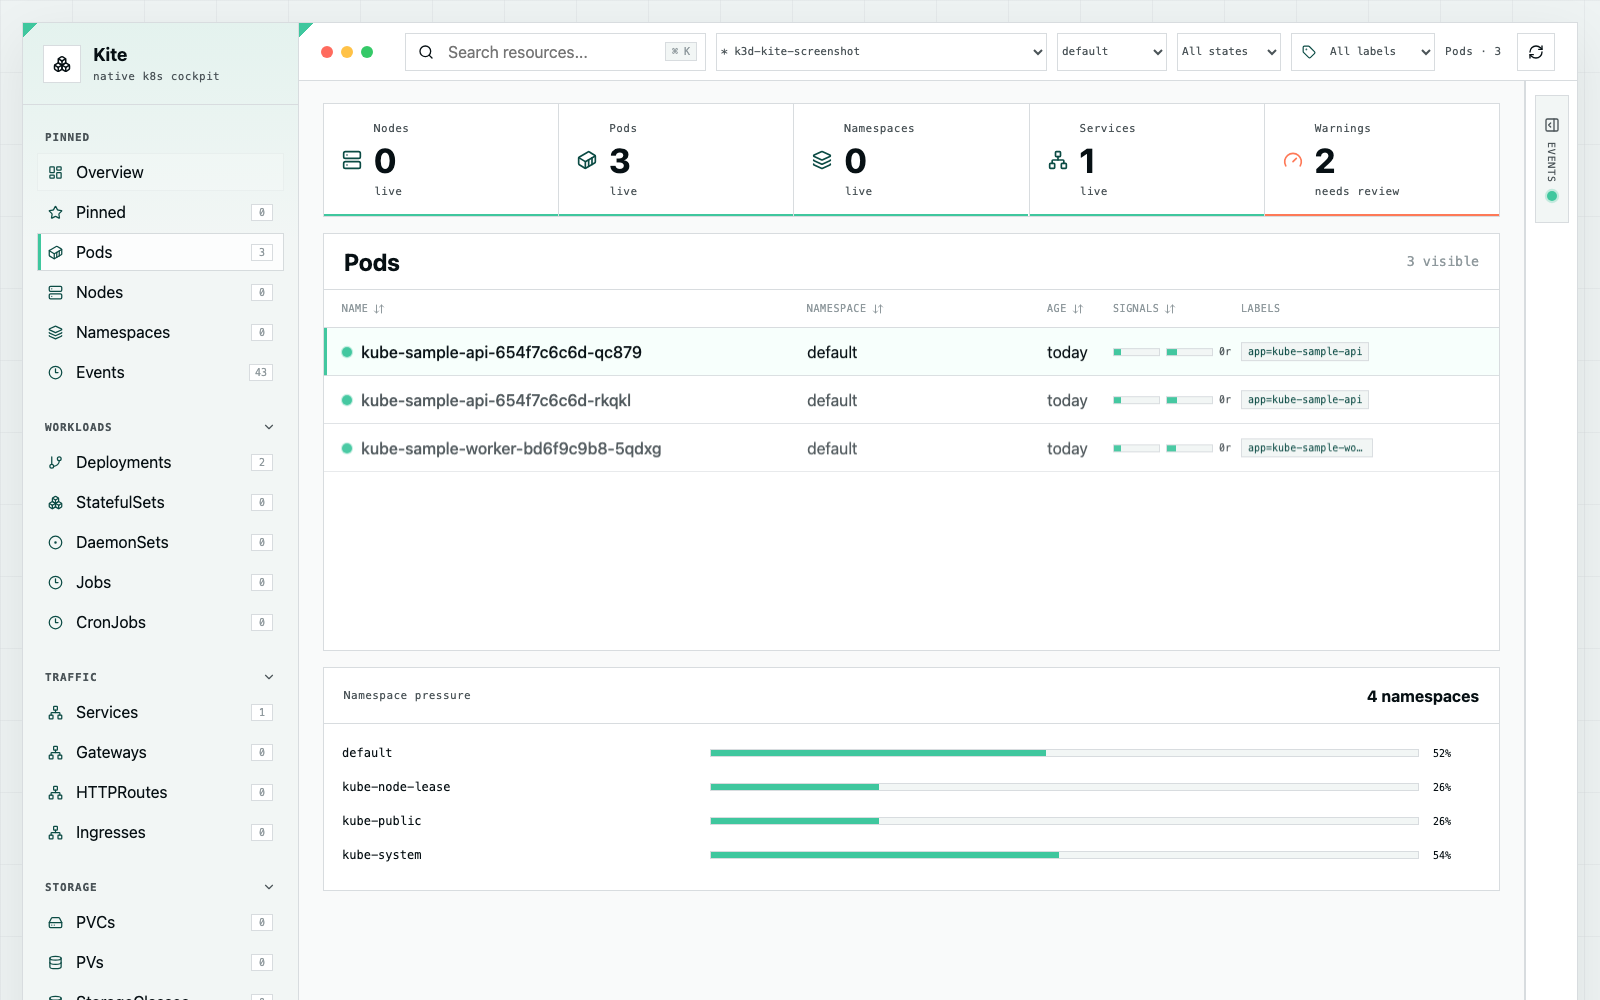
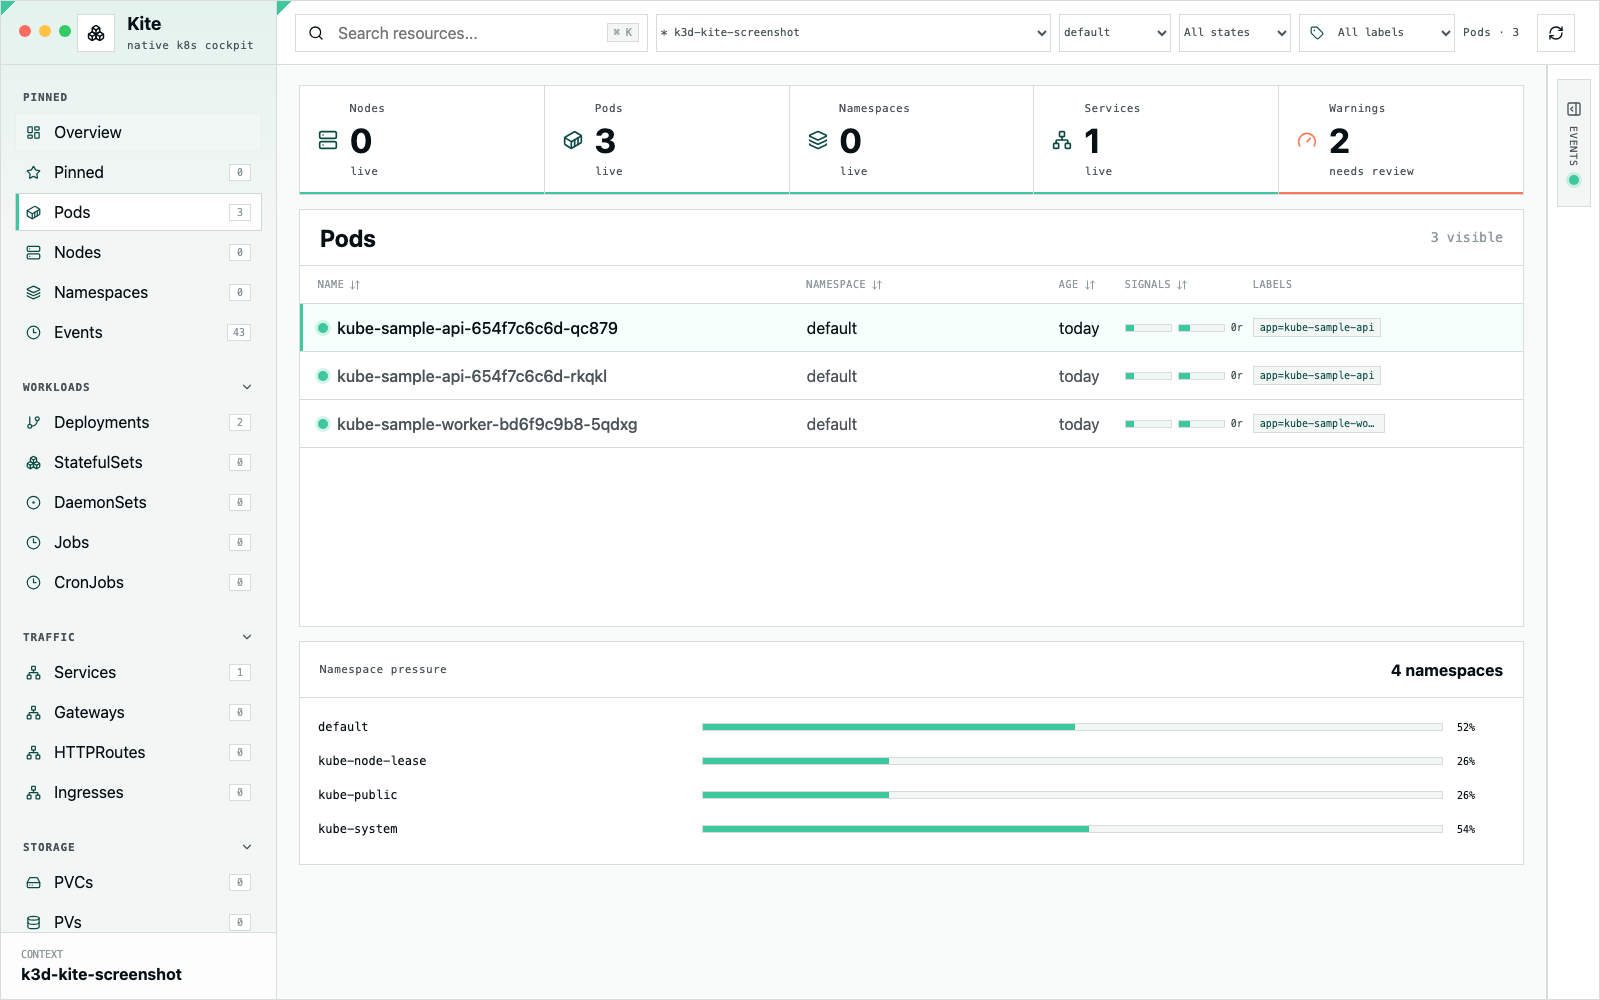
Polish native macOS app layout

diff --git a/src/styles/base.css b/src/styles/base.css
@@ -5,7 +5,7 @@
 html,
 body,
 #root {
-  min-block-size: 100%;
+  block-size: 100%;
   margin: 0;
 }
 
@@ -28,26 +28,52 @@ button {
   color: inherit;
 }
 
+button:focus-visible,
+input:focus-visible,
+select:focus-visible,
+summary:focus-visible {
+  outline: 2px solid color-mix(in srgb, var(--green) 72%, white);
+  outline-offset: 2px;
+}
+
+.nav-groups,
+.primary-pane,
+.inspector,
+.inspector-rail,
+.scope-tabs,
+.log-source-tabs,
+.terminal-output,
+.code-pane,
+.log-pane,
+.event-pane,
+.inspector-yaml pre {
+  scrollbar-color: color-mix(in srgb, var(--green-deep) 28%, transparent) transparent;
+  scrollbar-gutter: stable;
+}
+
 .kite-window {
-  min-block-size: 100vh;
-  padding: 22px;
+  block-size: 100dvh;
+  overflow: hidden;
 }
 
 .control-center {
   display: grid;
   grid-template-columns: 276px minmax(0, 1fr);
-  min-inline-size: 1120px;
-  min-block-size: calc(100vh - 44px);
+  inline-size: 100%;
+  block-size: 100%;
+  min-inline-size: 0;
+  min-block-size: 0;
   overflow: hidden;
   border: 1px solid var(--line);
   background: rgba(255, 255, 255, 0.9);
-  box-shadow: var(--shadow);
 }
 
 .sidebar {
   display: grid;
   grid-template-rows: auto minmax(0, 1fr) auto;
+  block-size: 100%;
   min-block-size: 0;
+  overflow: hidden;
   border-inline-end: 1px solid var(--line);
   background:
     linear-gradient(180deg, rgba(63, 199, 158, 0.08), transparent 220px),
@@ -59,8 +85,8 @@ button {
   display: flex;
   gap: 12px;
   align-items: center;
-  min-block-size: 82px;
-  padding-inline: 20px;
+  min-block-size: 64px;
+  padding-inline: 76px 18px;
   border-block-end: 1px solid var(--line);
 }
 
@@ -103,10 +129,29 @@ button {
   letter-spacing: 0.04em;
 }
 
+.window-control-fallback {
+  position: absolute;
+  inset-block-start: 24px;
+  inset-inline-start: 18px;
+  display: flex;
+  gap: 8px;
+}
+
+.window-control-fallback span {
+  inline-size: 12px;
+  block-size: 12px;
+  border-radius: 999px;
+}
+
+.window-control-fallback span:nth-child(1) { background: #ff6b5e; }
+.window-control-fallback span:nth-child(2) { background: #ffc247; }
+.window-control-fallback span:nth-child(3) { background: #35c968; }
+
 .nav-groups {
   min-block-size: 0;
   overflow-y: auto;
   padding: 18px 14px 22px;
+  overscroll-behavior: contain;
 }
 
 .nav-section {
@@ -186,36 +231,22 @@ button {
 
 .workspace {
   display: grid;
-  grid-template-rows: 58px minmax(0, 1fr);
+  grid-template-rows: 64px minmax(0, 1fr);
   min-inline-size: 0;
   min-block-size: 0;
+  overflow: hidden;
 }
 
 .toolbar {
   position: relative;
   display: grid;
-  grid-template-columns: 74px minmax(160px, 1fr) minmax(170px, 1.1fr) 110px 104px 144px minmax(62px, auto) 38px;
-  gap: 10px;
+  grid-template-columns: minmax(210px, 1fr) minmax(220px, 1.12fr) 112px 112px 156px minmax(66px, auto) 40px;
+  gap: 8px;
   align-items: center;
-  padding-inline: 22px;
+  padding-inline: 18px 22px;
   border-block-end: 1px solid var(--line);
   background: rgba(255, 255, 255, 0.92);
 }
-
-.traffic-dots {
-  display: flex;
-  gap: 8px;
-}
-
-.traffic-dots span {
-  inline-size: 12px;
-  block-size: 12px;
-  border-radius: 999px;
-}
-
-.traffic-dots span:nth-child(1) { background: #ff6b5e; }
-.traffic-dots span:nth-child(2) { background: #ffc247; }
-.traffic-dots span:nth-child(3) { background: #35c968; }
 
 .search-box {
   display: grid;
@@ -293,6 +324,7 @@ button {
   display: grid;
   grid-template-columns: minmax(0, 1fr) 340px;
   min-block-size: 0;
+  overflow: hidden;
 }
 
 .content-grid.inspector-collapsed {
@@ -301,10 +333,11 @@ button {
 
 .primary-pane {
   min-block-size: 0;
-  overflow-y: auto;
-  padding: 22px 24px 28px;
+  overflow: auto;
+  padding: 20px 22px 24px;
   border-inline-end: 1px solid var(--line);
   background: rgba(247, 249, 249, 0.76);
+  overscroll-behavior: contain;
 }
 
 .status-dot {
@@ -318,7 +351,7 @@ button {
   display: grid;
   grid-template-columns: repeat(5, minmax(120px, 1fr));
   gap: 1px;
-  margin-block-end: 16px;
+  margin-block-end: 14px;
   border: 1px solid var(--line);
   background: var(--line);
 }
@@ -328,8 +361,8 @@ button {
   grid-template-columns: auto 1fr;
   gap: 8px 12px;
   align-items: center;
-  min-block-size: 108px;
-  padding: 18px;
+  min-block-size: 100px;
+  padding: 16px 18px;
   background: var(--surface);
 }
 
@@ -350,7 +383,7 @@ button {
 .scope-tabs {
   display: flex;
   gap: 0;
-  margin-block-end: 16px;
+  margin-block-end: 14px;
   overflow-x: auto;
   border: 1px solid var(--line);
   background: var(--line);
@@ -391,7 +424,7 @@ button {
 }
 
 .resource-panel {
-  margin-block-end: 16px;
+  margin-block-end: 14px;
 }
 
 .resource-panel > header,
@@ -474,8 +507,7 @@ button {
 }
 
 .table-body {
-  max-block-size: 430px;
-  overflow-y: auto;
+  overflow: visible;
 }
 
 .resource-row {
@@ -488,8 +520,6 @@ button {
   color: var(--text-soft);
   text-align: start;
   cursor: pointer;
-  content-visibility: auto;
-  contain-intrinsic-size: 48px;
 }
 
 .resource-row.selected {
@@ -1311,6 +1341,7 @@ button {
   padding: 22px;
   border: 0;
   background: var(--surface);
+  overscroll-behavior: contain;
 }
 
 .inspector header {
@@ -1341,9 +1372,11 @@ button {
   display: grid;
   place-items: start center;
   min-block-size: 0;
+  overflow-y: auto;
   padding-block: 14px;
   border-block: 0;
   border-inline-end: 0;
+  overscroll-behavior: contain;
 }
 
 .inspector-rail button {

diff --git a/src/components/AppShell.tsx b/src/components/AppShell.tsx
@@ -10,11 +10,12 @@ import { NamespacePressure, ResourceTable, ScopeTabs, SummaryStrip, Toolbar } fr
 
 type AppShellProps = {
   data: KiteData;
+  usesNativeWindowControls: boolean;
 };
 
 const navItems = navSections.flatMap((section) => section.items);
 
-export function AppShell({ data }: AppShellProps) {
+export function AppShell({ data, usesNativeWindowControls }: AppShellProps) {
   const [activeId, setActiveId] = useState("overview");
   const [detailOpen, setDetailOpen] = useState(false);
   const [inspectorOpen, setInspectorOpen] = useState(false);
@@ -57,7 +58,14 @@ export function AppShell({ data }: AppShellProps) {
   return (
     <div className="kite-window">
       <div className="control-center">
-        <Sidebar activeId={activeId} clusterName={clusterName} counts={counts} pinnedCount={data.pinnedCount} onSelect={selectNavigation} />
+        <Sidebar
+          activeId={activeId}
+          clusterName={clusterName}
+          counts={counts}
+          pinnedCount={data.pinnedCount}
+          showWindowControlFallback={!usesNativeWindowControls}
+          onSelect={selectNavigation}
+        />
 
         <main className="workspace">
           <Toolbar count={scopedResources.length} data={data} scope={activeItem?.label ?? "Overview"} />

diff --git a/src/components/navigation.tsx b/src/components/navigation.tsx
@@ -11,17 +11,26 @@ export function Sidebar({
   clusterName,
   counts,
   pinnedCount,
+  showWindowControlFallback,
   onSelect,
 }: {
   activeId: string;
   clusterName: string;
   counts: Map<string, number>;
   pinnedCount: number;
+  showWindowControlFallback: boolean;
   onSelect: (id: string) => void;
 }) {
   return (
     <aside className="sidebar">
       <div className="brand">
+        {showWindowControlFallback ? (
+          <div className="window-control-fallback" aria-hidden="true">
+            <span />
+            <span />
+            <span />
+          </div>
+        ) : null}
         <div className="brand-mark">
           <Boxes size={18} />
         </div>

diff --git a/src/components/workspace.tsx b/src/components/workspace.tsx
@@ -12,11 +12,6 @@ import type { NavItem } from "../theme/resourceTheme";
 export function Toolbar({ count, data, scope }: { count: number; data: KiteData; scope: string }) {
   return (
     <header className="toolbar">
-      <div className="traffic-dots" aria-hidden="true">
-        <span />
-        <span />
-        <span />
-      </div>
       <label className="search-box">
         <Search size={16} />
         <input

diff --git a/src/App.tsx b/src/App.tsx
@@ -3,6 +3,7 @@ import { useKiteData } from "./hooks/useKiteData";
 
 export function App() {
   const data = useKiteData();
+  const usesNativeWindowControls = "__TAURI_INTERNALS__" in window;
 
-  return <AppShell data={data} />;
+  return <AppShell data={data} usesNativeWindowControls={usesNativeWindowControls} />;
 }

diff --git a/docs/release.md b/docs/release.md
@@ -11,9 +11,9 @@ brew tap rootsec1/kite
 brew install --cask kite
 ```
 
-The current public release is `v0.1.0`:
+The current public release is `v0.1.1`:
 
-- GitHub release: `https://github.com/rootsec1/kite/releases/tag/v0.1.0`
+- GitHub release: `https://github.com/rootsec1/kite/releases/tag/v0.1.1`
 - Homebrew tap cask: `https://github.com/rootsec1/homebrew-kite/blob/main/Casks/kite.rb`
 
 ## Required Setup
@@ -61,8 +61,8 @@ brew install --cask kite
 3. Tag and push:
 
 ```bash
-git tag v0.1.0
-git push origin main v0.1.0
+git tag v0.1.1
+git push origin main v0.1.1
 ```
 
 The `Release` workflow will:
@@ -96,7 +96,7 @@ brew audit --cask --new rootsec1/kite/kite
 
 ```bash
 gh run list --repo rootsec1/kite --workflow Release --limit 3
-gh release view v0.1.0 --repo rootsec1/kite
+gh release view v0.1.1 --repo rootsec1/kite
 gh api repos/rootsec1/homebrew-kite/contents/Casks/kite.rb --jq '.content' | base64 --decode
 ```
 
@@ -111,8 +111,8 @@ To dry-run cask generation:
 
 ```bash
 bun scripts/generate-homebrew-cask.mjs \
-  --version 0.1.0 \
+  --version 0.1.1 \
   --sha256 0000000000000000000000000000000000000000000000000000000000000000 \
-  --url https://github.com/rootsec1/kite/releases/download/v0.1.0/Kite_0.1.0_universal.dmg \
+  --url https://github.com/rootsec1/kite/releases/download/v0.1.1/Kite_0.1.1_universal.dmg \
   --output /tmp/kite.rb
 ```
